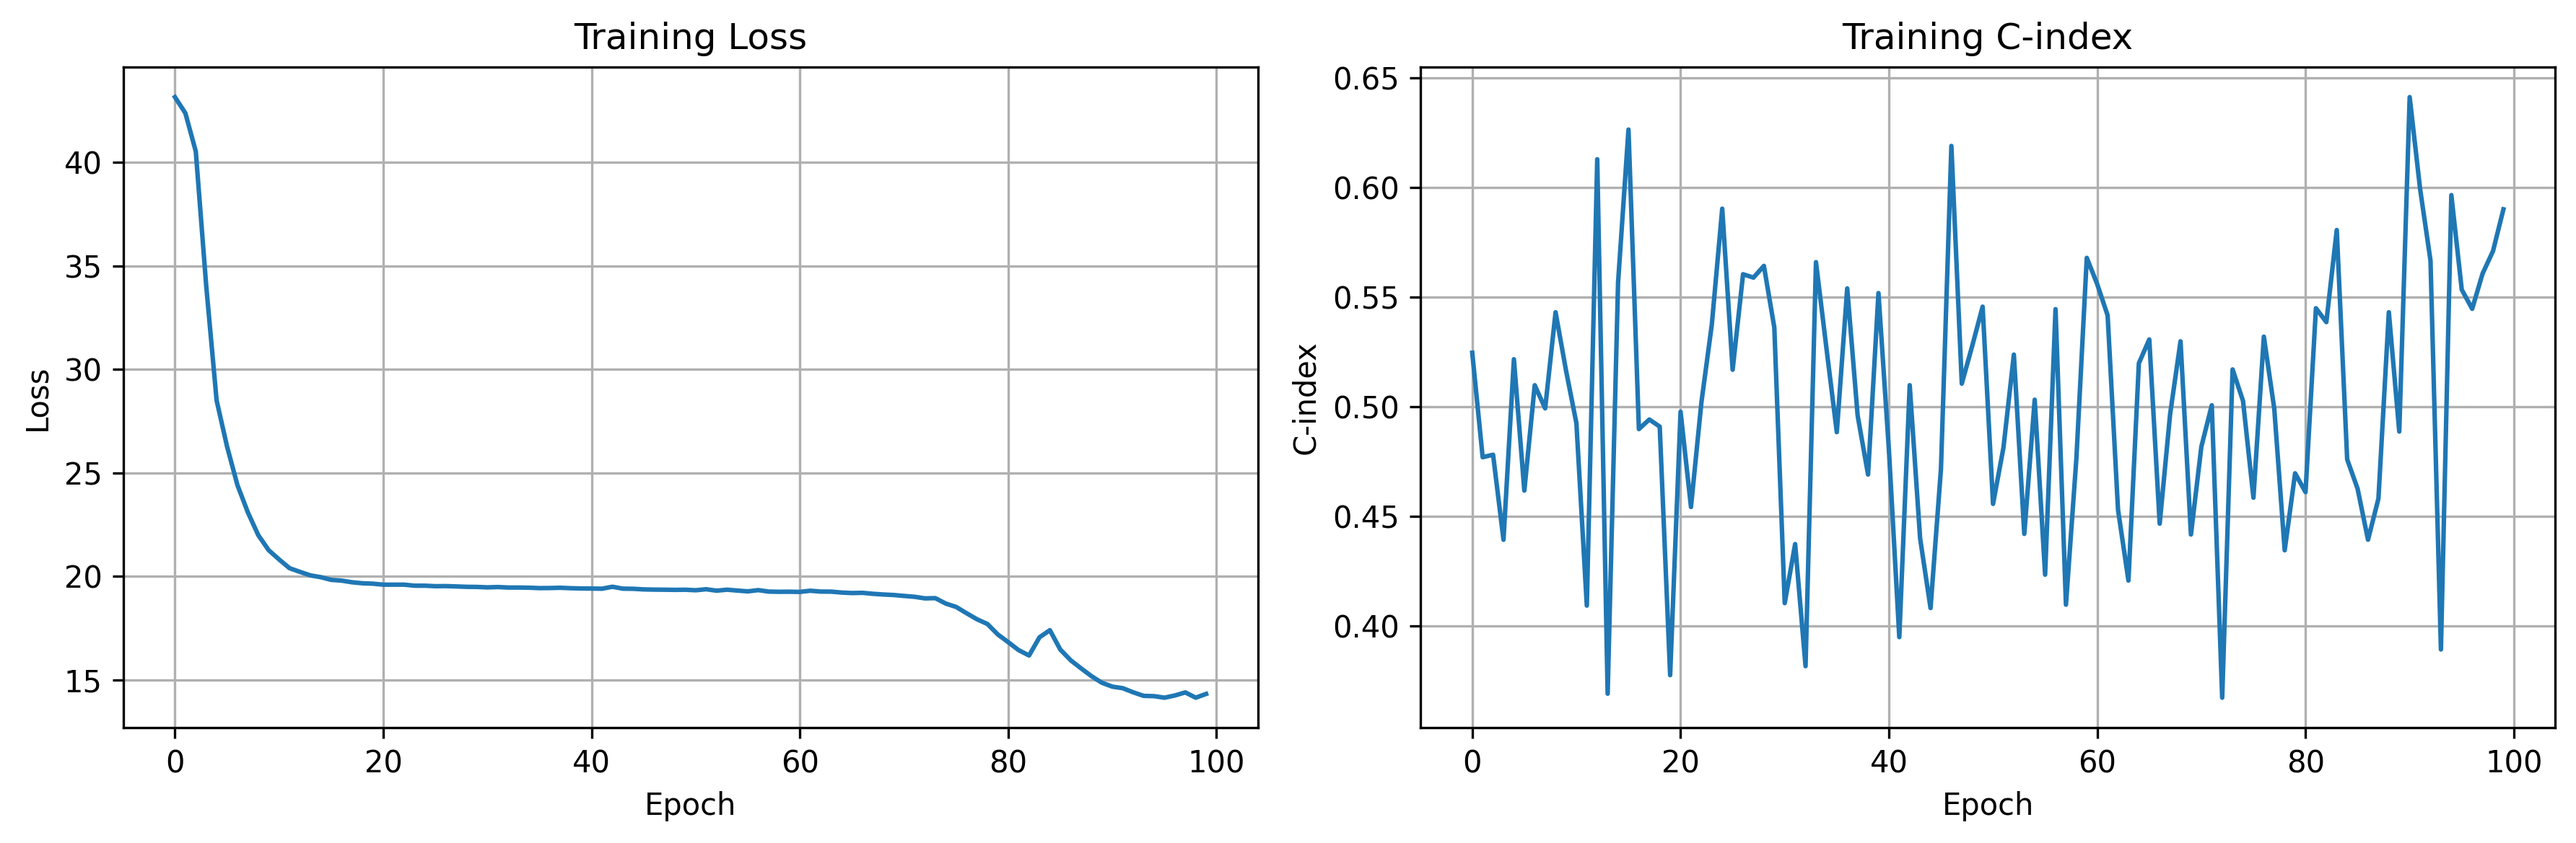
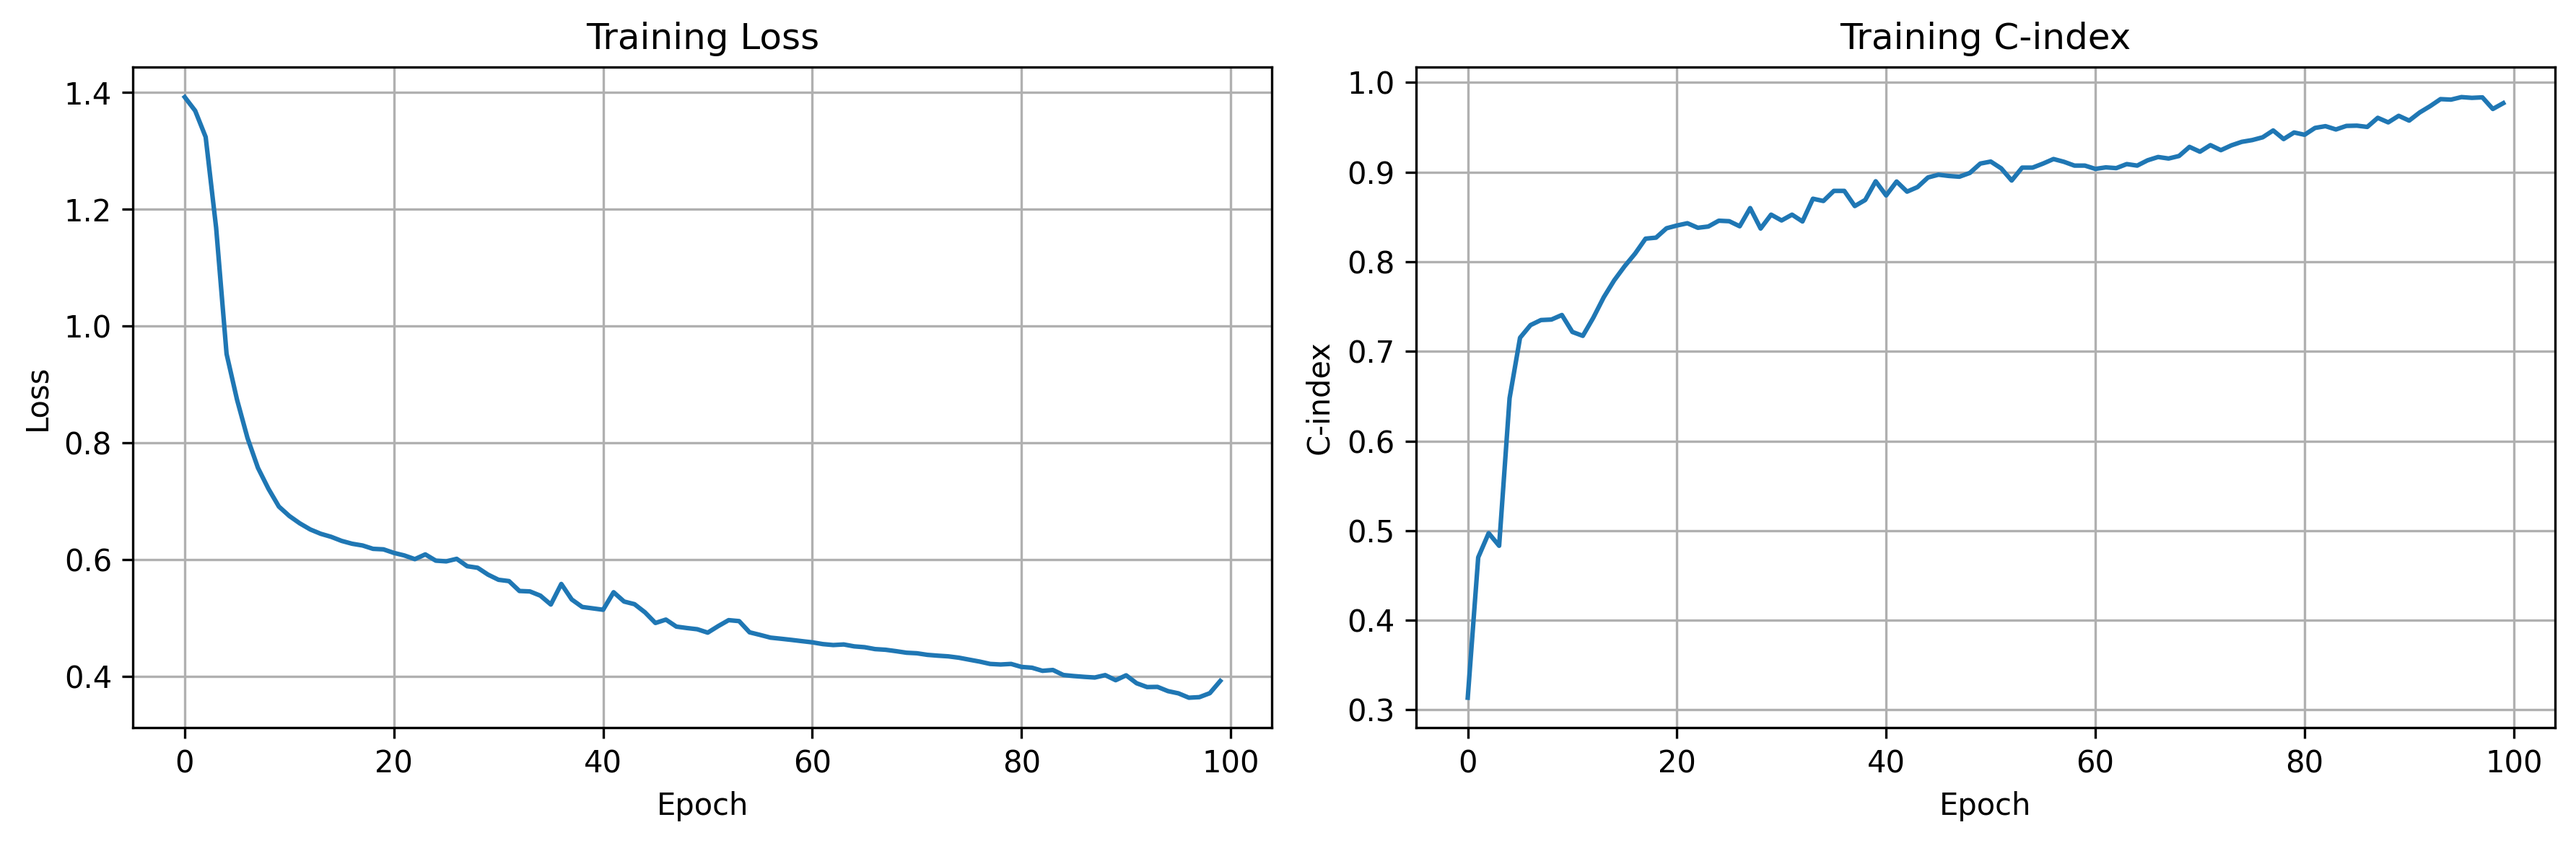
corrected loss and c index

diff --git a/src/clinical_cool_etud/training.py b/src/clinical_cool_etud/training.py
@@ -10,58 +10,44 @@ from clinical_cool_etud.prepa_data_model import build_lstm_tensor, split_tensors
 #from clinical_cool_etud.sksurv_format import to_sksurv_format
 
 
-def concordance_index(y_true, risk_scores):
+def manual_concordance_index(y_true, risk_matrix):
     """
-    Calculate the C-index (Concordance Index) for survival analysis.
+    Calculate the time-dependent C-index for survival analysis.
     
     Args:
-        y_true: Tensor of shape (n_samples, 2) where:
+        y_true: Array of shape (n_samples, 2) where:
                 - y_true[:, 0] = time to event
                 - y_true[:, 1] = event indicator (1 = event occurred, 0 = censored)
-        risk_scores: Tensor of shape (n_samples,) with predicted risk scores
+        risk_matrix: Array of shape (n_samples, n_time_points) with cumulative risk scores
     
     Returns:
         c_index: Float value between 0 and 1 (higher is better)
     """
-    # Convert to numpy if needed
-    if torch.is_tensor(y_true):
-        y_true = y_true.detach().cpu().numpy()
-    if torch.is_tensor(risk_scores):
-        risk_scores = risk_scores.detach().cpu().numpy()
-    
     times = y_true[:, 0]
     events = y_true[:, 1]
-    
+    concordant_pairs = 0
+    total_comparable_pairs = 0
     n = len(times)
-    concordant = 0
-    permissible = 0
     
-    # For each pair of samples
     for i in range(n):
-        for j in range(i + 1, n):
-            # Only consider pairs where at least one has an event
-            # Case 1: i has event and occurs before j
-            if events[i] == 1 and times[i] < times[j]:
-                permissible += 1
-                # Check if risk scores agree (higher risk should have lower survival time)
-                if risk_scores[i] > risk_scores[j]:
-                    concordant += 1
-                elif risk_scores[i] == risk_scores[j]:
-                    concordant += 0.5
+        if events[i] == 1:  # Patient i died
+            t_i = int(times[i])
+            # Ensure we don't go out of bounds in the risk matrix
+            t_idx = min(t_i, risk_matrix.shape[1] - 1)
             
-            # Case 2: j has event and occurs before i
-            elif events[j] == 1 and times[j] < times[i]:
-                permissible += 1
-                # Check if risk scores agree
-                if risk_scores[j] > risk_scores[i]:
-                    concordant += 1
-                elif risk_scores[i] == risk_scores[j]:
-                    concordant += 0.5
+            for j in range(n):
+                if times[j] > times[i]:  # j survived longer than i
+                    total_comparable_pairs += 1
+                    # Compare risks at time t_i
+                    risk_i = risk_matrix[i, t_idx]
+                    risk_j = risk_matrix[j, t_idx]
+                    
+                    if risk_i > risk_j:
+                        concordant_pairs += 1
+                    elif risk_i == risk_j:
+                        concordant_pairs += 0.5
     
-    if permissible == 0:
-        return 0.5  # Random performance if no valid pairs
-    
-    return concordant / permissible
+    return concordant_pairs / total_comparable_pairs if total_comparable_pairs > 0 else 0
 
 
 def main():
@@ -118,22 +104,35 @@ def main():
         epoch_loss = 0.0
 
         for X_batch, Y_batch in train_loader:
+            # Always reset gradients before each step
             optimizer.zero_grad()
+            
+            # Model outputs risk probabilities for each time point
             risk_death_predict = model(X_batch)
+            
+            # Calculate the negative log likelihood loss
             loss = criterion(risk_death_predict, Y_batch)
+            
+            # Backpropagation to calculate gradients
             loss.backward()
+            
+            # Optimize weights
             optimizer.step()
+            
+            # Add batch loss to epoch loss
             epoch_loss += loss.item()
 
-        history_loss.append(epoch_loss / len(train_loader))
+        # Calculate mean loss over the entire epoch
+        epoch_loss /= train_dataset.__len__()
+        history_loss.append(epoch_loss)
         
-        # Calculate C-index on training set every epoch
+        # Calculate time-dependent C-index on training set every epoch
         model.eval()
         with torch.no_grad():
-            train_risk_scores = model(X_train)
-            # Sum the risk scores over time to get overall risk
-            train_risk_total = train_risk_scores.sum(dim=1)
-            train_cindex = concordance_index(Y_train, train_risk_total)
+            train_probs = model(X_train)
+            # Calculate cumulative risk: Matrix [n_patients, n_time_points]
+            train_risk_cumulative = torch.cumsum(train_probs, dim=1).numpy()
+            train_cindex = manual_concordance_index(Y_train.numpy(), train_risk_cumulative)
             history_train_cindex.append(train_cindex)
         model.train()
         
@@ -143,16 +142,18 @@ def main():
     # Final evaluation on test set
     model.eval()
     with torch.no_grad():
-        test_risk_scores = model(X_test)
-        test_risk_total = test_risk_scores.sum(dim=1)
-        test_cindex = concordance_index(Y_test, test_risk_total)
+        # Test set
+        test_probs = model(X_test)
+        test_risk_cumulative = torch.cumsum(test_probs, dim=1).numpy()
+        test_cindex = manual_concordance_index(Y_test.numpy(), test_risk_cumulative)
         
-        train_risk_scores = model(X_train)
-        train_risk_total = train_risk_scores.sum(dim=1)
-        final_train_cindex = concordance_index(Y_train, train_risk_total)
+        # Train set (final)
+        train_probs = model(X_train)
+        train_risk_cumulative = torch.cumsum(train_probs, dim=1).numpy()
+        final_train_cindex = manual_concordance_index(Y_train.numpy(), train_risk_cumulative)
     
-    print(f"\nFinal Training C-index: {final_train_cindex:.4f}")
-    print(f"Test C-index: {test_cindex:.4f}")
+    print(f"\nFinal Training C-index (time-dependent): {final_train_cindex:.4f}")
+    print(f"Test C-index (time-dependent): {test_cindex:.4f}")
 
     # Plotting
     fig, (ax1, ax2) = plt.subplots(1, 2, figsize=(12, 4))
@@ -176,8 +177,6 @@ def main():
     plt.savefig(output_path, dpi=300, bbox_inches='tight')
     print(f"\nPlot saved to: {output_path}")
     
-    plt.show()
-    
     # Save training history to CSV
     history_df = pd.DataFrame({
         'epoch': range(1, number_epochs + 1),
@@ -192,6 +191,7 @@ def main():
     results_summary = {
         'final_train_cindex': final_train_cindex,
         'test_cindex': test_cindex,
+        'mean_loss': np.mean(history_loss),
         'final_loss': history_loss[-1],
         'number_epochs': number_epochs
     }
